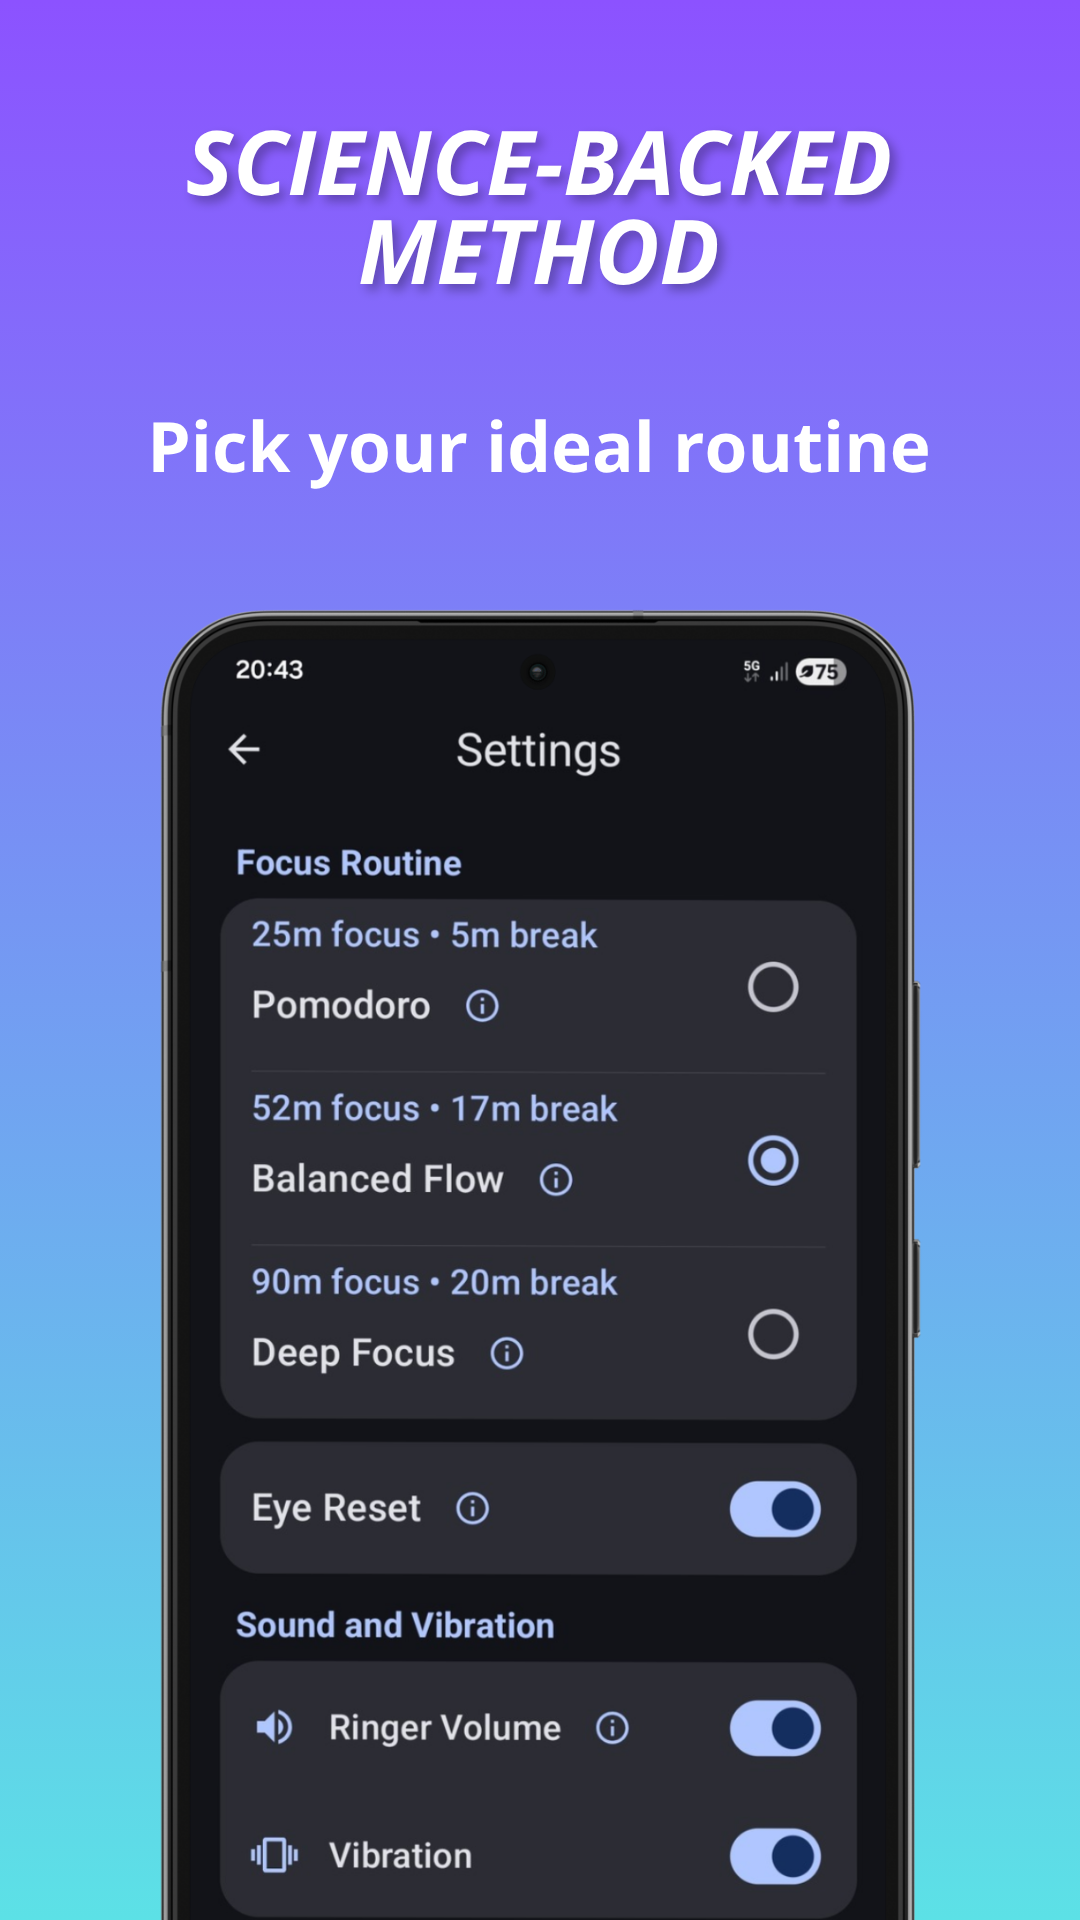
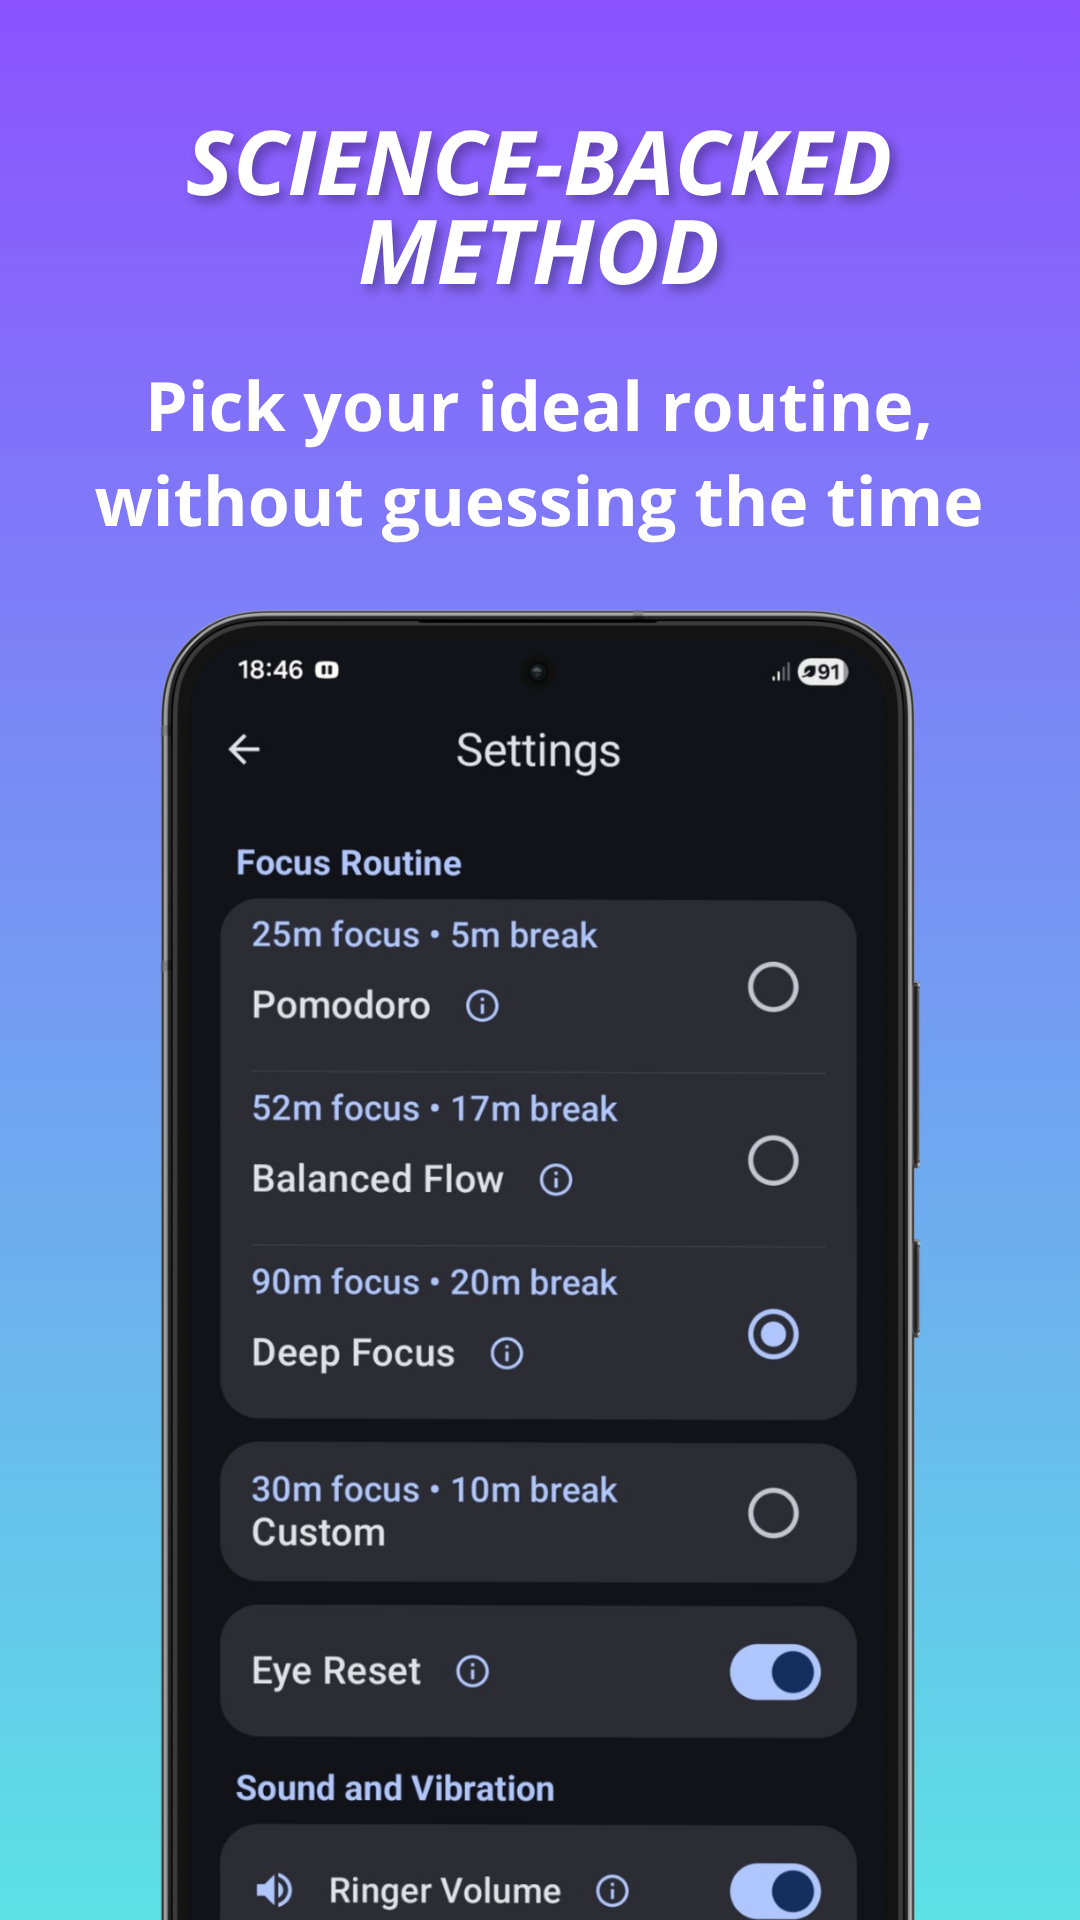
aggiornamento immagini

diff --git a/_apps/screenrest.md b/_apps/screenrest.md
@@ -12,10 +12,11 @@ privacy_policy: /policies/privacy-policy-screenrest.html
 ## <i class="fa-solid fa-images"></i> Gallery
 
 <div style="display: flex; gap: 20px; overflow-x: auto; padding-bottom: 20px;">
-  <img src="/assets/images/screenrest/1.png" alt="ScreenRest break timer" style="height: 400px; border-radius: 12px; box-shadow: var(--shadow);">
-  <img src="/assets/images/screenrest/2.png" alt="Work and rest interval methods" style="height: 400px; border-radius: 12px; box-shadow: var(--shadow);">
-  <img src="/assets/images/screenrest/3.png" alt="20-20-20 eye strain prevention" style="height: 400px; border-radius: 12px; box-shadow: var(--shadow);">
-  <img src="/assets/images/screenrest/4.png" alt="Automated screen break scheduling" style="height: 400px; border-radius: 12px; box-shadow: var(--shadow);">
+    <img src="/assets/images/screenrest/1.png" alt="ScreenRest break timer" style="height: 400px; border-radius: 12px; box-shadow: var(--shadow);"> <img src="/assets/images/screenrest/2.png" alt="Work and rest interval methods" style="height: 400px; border-radius: 12px; box-shadow: var(--shadow);">
+    <img src="/assets/images/screenrest/2.png" alt="Work and rest interval methods" style="height: 400px; border-radius: 12px; box-shadow: var(--shadow);">
+    <img src="/assets/images/screenrest/3.png" alt="Customizable Times" style="height: 400px; border-radius: 12px; box-shadow: var(--shadow);">
+    <img src="/assets/images/screenrest/4.png" alt="20-20-20 eye strain prevention" style="height: 400px; border-radius: 12px; box-shadow: var(--shadow);">
+    <img src="/assets/images/screenrest/5.png" alt="Automated screen break scheduling" style="height: 400px; border-radius: 12px; box-shadow: var(--shadow);">
 </div>
 
 <div class="highlight-quote-box">

diff --git a/_apps/screenrest_it.md b/_apps/screenrest_it.md
@@ -13,10 +13,11 @@ privacy_policy: /it/policies/privacy-policy-screenrest.html
 ## <i class="fa-solid fa-images"></i> Galleria
 
 <div style="display: flex; gap: 20px; overflow-x: auto; padding-bottom: 20px;">
-  <img src="/assets/images/screenrest/1.png" alt="Timer per le pause ScreenRest" style="height: 400px; border-radius: 12px; box-shadow: var(--shadow);">
-  <img src="/assets/images/screenrest/2.png" alt="Metodi per intervalli di lavoro e riposo" style="height: 400px; border-radius: 12px; box-shadow: var(--shadow);">
-  <img src="/assets/images/screenrest/3.png" alt="Prevenzione dell'affaticamento visivo 20-20-20" style="height: 400px; border-radius: 12px; box-shadow: var(--shadow);">
-  <img src="/assets/images/screenrest/4.png" alt="Pianificazione automatica delle pause" style="height: 400px; border-radius: 12px; box-shadow: var(--shadow);">
+    <img src="/assets/images/screenrest/1.png" alt="Timer per le pause ScreenRest" style="height: 400px; border-radius: 12px; box-shadow: var(--shadow);">
+    <img src="/assets/images/screenrest/2.png" alt="Metodi per intervalli di lavoro e riposo" style="height: 400px; border-radius: 12px; box-shadow: var(--shadow);">
+    <img src="/assets/images/screenrest/3.png" alt="Tempi personalizzati" style="height: 400px; border-radius: 12px; box-shadow: var(--shadow);">
+    <img src="/assets/images/screenrest/4.png" alt="Prevenzione dell'affaticamento visivo 20-20-20" style="height: 400px; border-radius: 12px; box-shadow: var(--shadow);">
+    <img src="/assets/images/screenrest/5.png" alt="Pianificazione automatica delle pause" style="height: 400px; border-radius: 12px; box-shadow: var(--shadow);">
 </div>
 
 <div class="highlight-quote-box">
